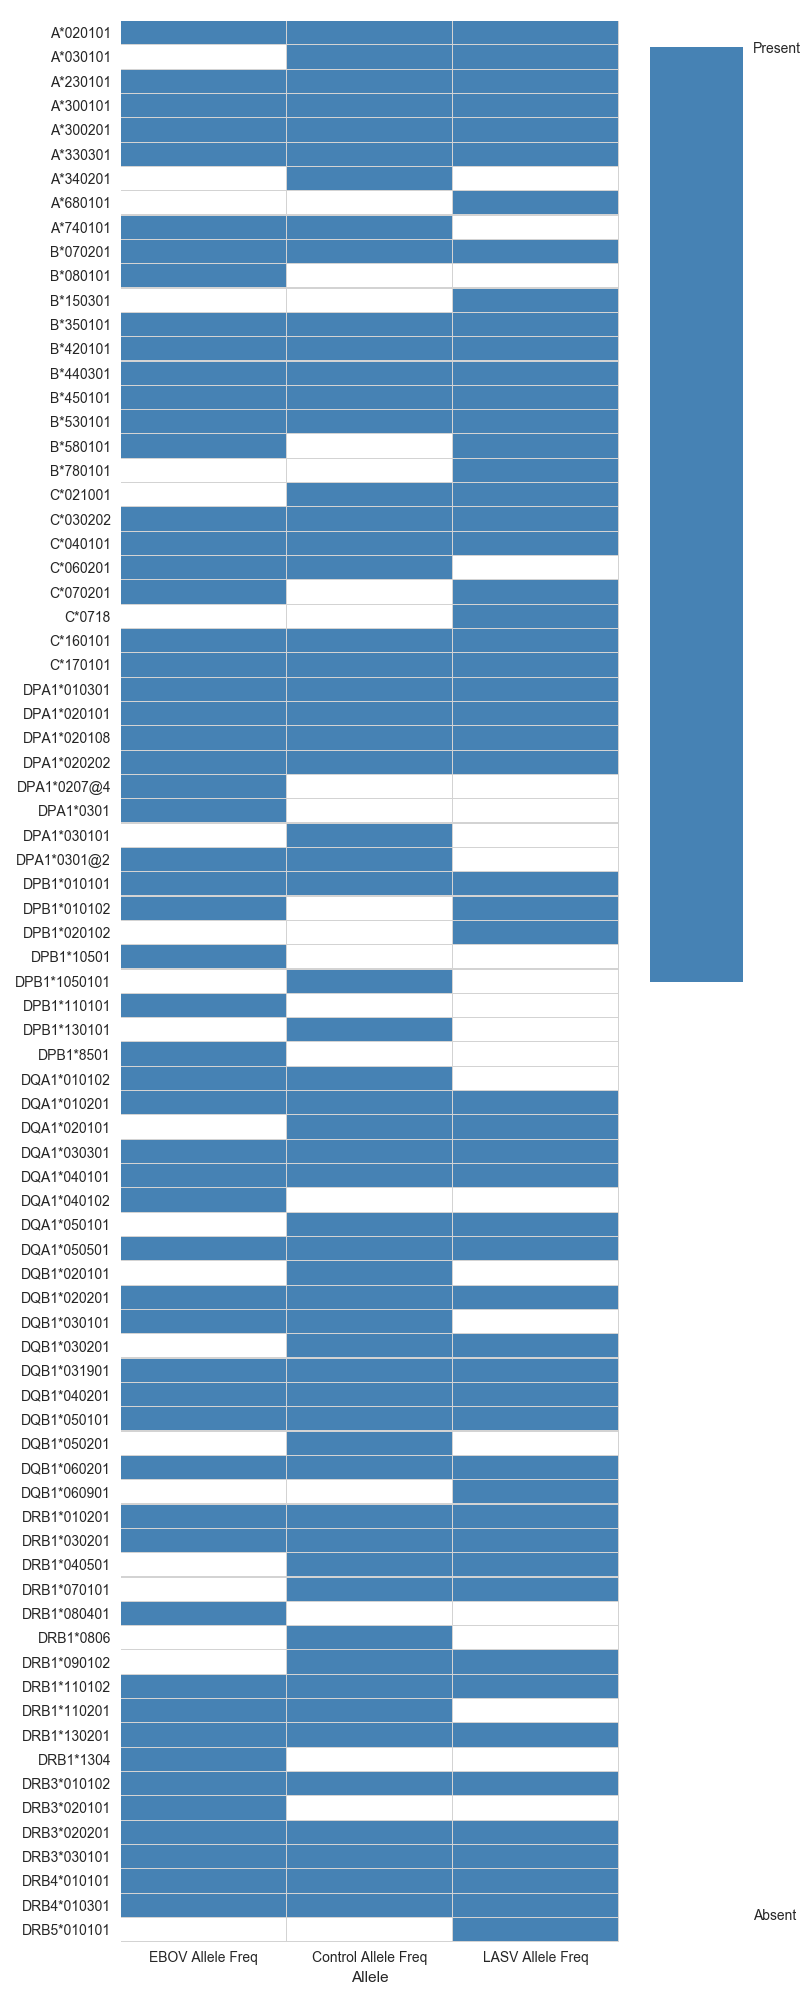
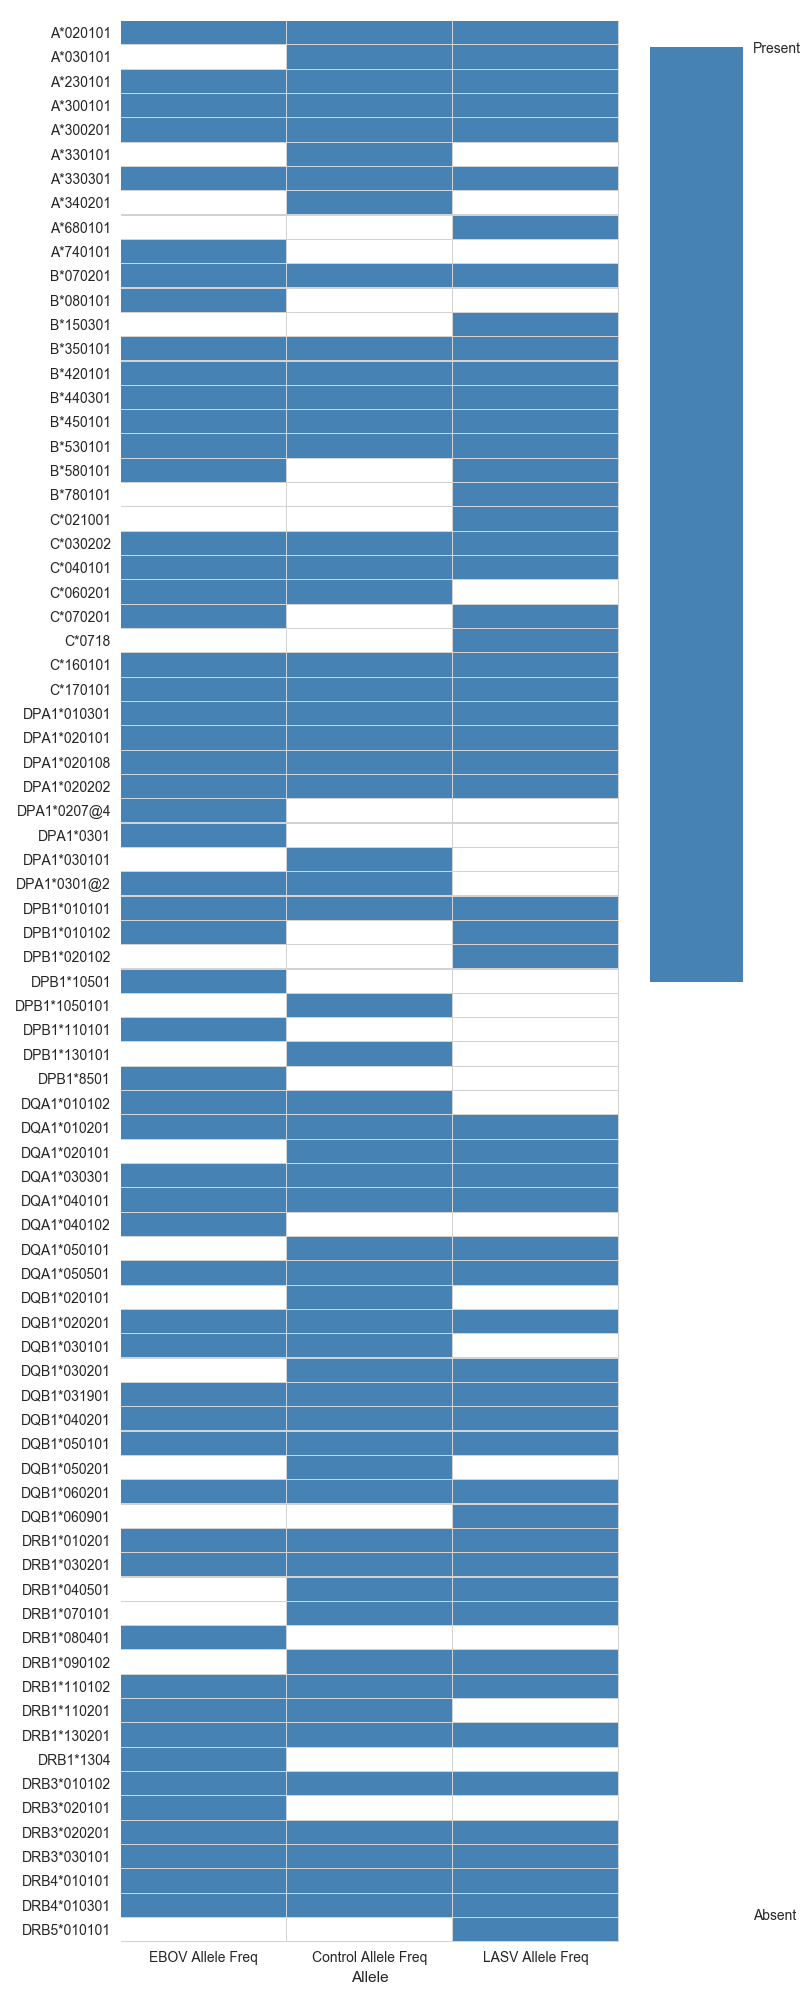
Updated.

Changed region(s): [[0.0312, 0.186, 0.7812, 0.837], [0.0625, 0.062, 0.7812, 0.186], [0.0938, 0.682, 0.125, 0.713]]

diff --git a/README.md b/README.md
@@ -14,6 +14,7 @@ A comprehensive list of the 259 observed HLA alleles sequenced in the Lassa, Ebo
 | MHC-I |          |                   | MHC-II   |             |                   |
 | :--   | :--      |               :-- | :--      | :--         |               :-- |
 | Gene  | Allele   | Allelic Frequency | Gene     | Allele      | Allelic Frequency |
+| ---   | ---      |               --- | ---      | ---         |               --- |
 | HLA-A | A*020101 |              0.14 | HLA-DPA1 | DPA1*020101 |              0.23 |
 | HLA-A | A*230101 |              0.13 | HLA-DPA1 | DPA1*020202 |               0.2 |
 | HLA-A | A*300101 |              0.09 | HLA-DPA1 | DPA1*020108 |              0.19 |
@@ -23,10 +24,10 @@ A comprehensive list of the 259 observed HLA alleles sequenced in the Lassa, Ebo
 | HLA-B | B*350101 |              0.13 | HLA-DPB1 | DPB1*130101 |              0.05 |
 | HLA-B | B*530101 |              0.12 | HLA-DQA1 | DQA1*010201 |              0.21 |
 | HLA-B | B*420101 |              0.07 | HLA-DQA1 | DQA1*050501 |              0.18 |
-| HLA-B | B*450101 |              0.06 | HLA-DQA1 | DQA1*040101 |              0.16 |
-| HLA-B | B*440301 |              0.06 | HLA-DQA1 | DQA1*030301 |              0.14 |
-| HLA-B | B*580101 |              0.06 | HLA-DQA1 | DQA1*020101 |              0.07 |
-| HLA-B | B*070201 |              0.06 | HLA-DQA1 | DQA1*010102 |              0.05 |
+| HLA-B | B*440301 |              0.06 | HLA-DQA1 | DQA1*040101 |              0.16 |
+| HLA-B | B*450101 |              0.06 | HLA-DQA1 | DQA1*030301 |              0.14 |
+| HLA-B | B*070201 |              0.06 | HLA-DQA1 | DQA1*020101 |              0.07 |
+| HLA-B | B*580101 |              0.06 | HLA-DQA1 | DQA1*010102 |              0.05 |
 | HLA-B | B*150301 |              0.05 | HLA-DQB1 | DQB1*040201 |              0.15 |
 | HLA-C | C*040101 |              0.22 | HLA-DQB1 | DQB1*050101 |              0.15 |
 | HLA-C | C*160101 |              0.18 | HLA-DQB1 | DQB1*031901 |              0.14 |
